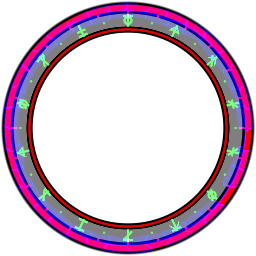
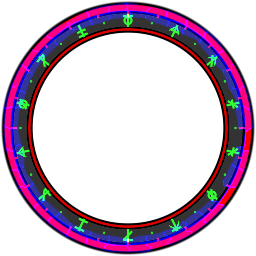
fix: rune circles read on snow: fill more opaque (burnt ground, not pink), cracks + leading edge + glyphs add glow, darker glyph-band backing; dev shots of Brute warn / wave / flash, Bloater, Ghoul + Archer lanes, Shaman orbs, Butcher chop + spin (KAN-136)

Changed region(s): [[0.0312, 0.0312, 0.9688, 0.9688]]

diff --git a/Assets/_Project/Editor/Boss/TelegraphArt.cs b/Assets/_Project/Editor/Boss/TelegraphArt.cs
@@ -79,7 +79,7 @@ namespace SurvivorSouls.Editor.Boss
             // A: dark backing behind the rims and (lighter) the glyph band.
             float backOuter = TextureFactory.SmoothStep(0.88f, 0.9f, r);
             float backInner = 1f - TextureFactory.SmoothStep(0.02f, 0.03f, Mathf.Abs(r - InnerRim));
-            float backBand = (1f - TextureFactory.SmoothStep(BandHalf, BandHalf + 0.015f, Mathf.Abs(r - BandCentre))) * 0.5f;
+            float backBand = (1f - TextureFactory.SmoothStep(BandHalf, BandHalf + 0.015f, Mathf.Abs(r - BandCentre))) * 0.8f;
             float backing = Mathf.Max(backOuter, Mathf.Max(backInner, backBand)) * (1f - TextureFactory.SmoothStep(0.975f, 0.995f, r));
 
             // B: shattered-earth wave band.
